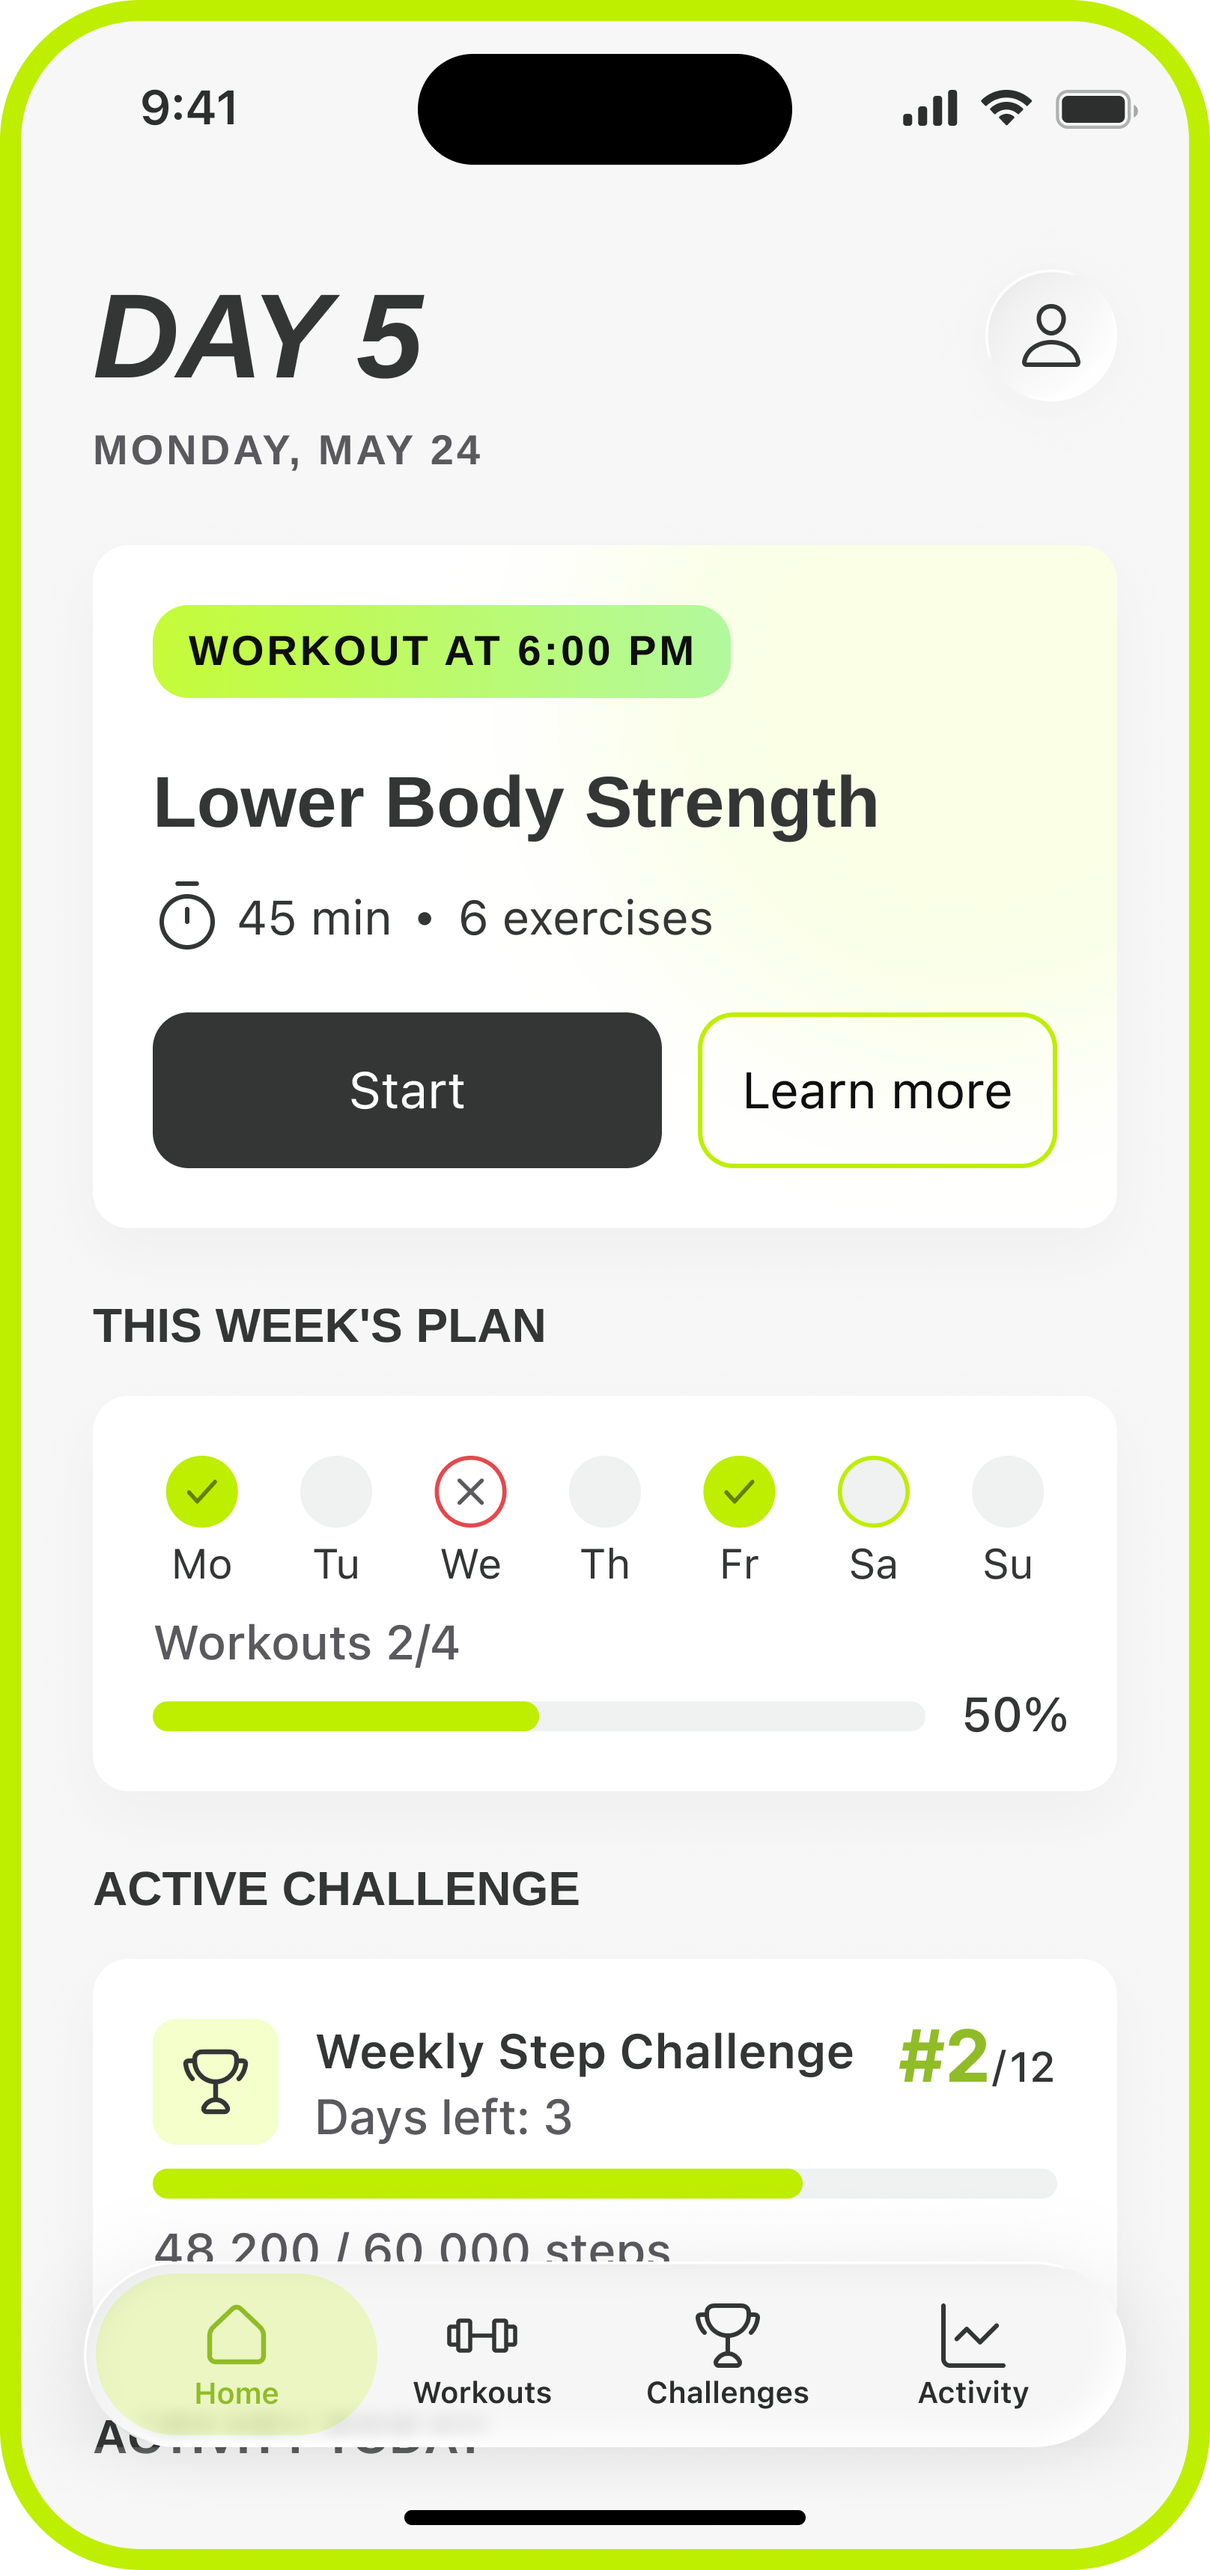
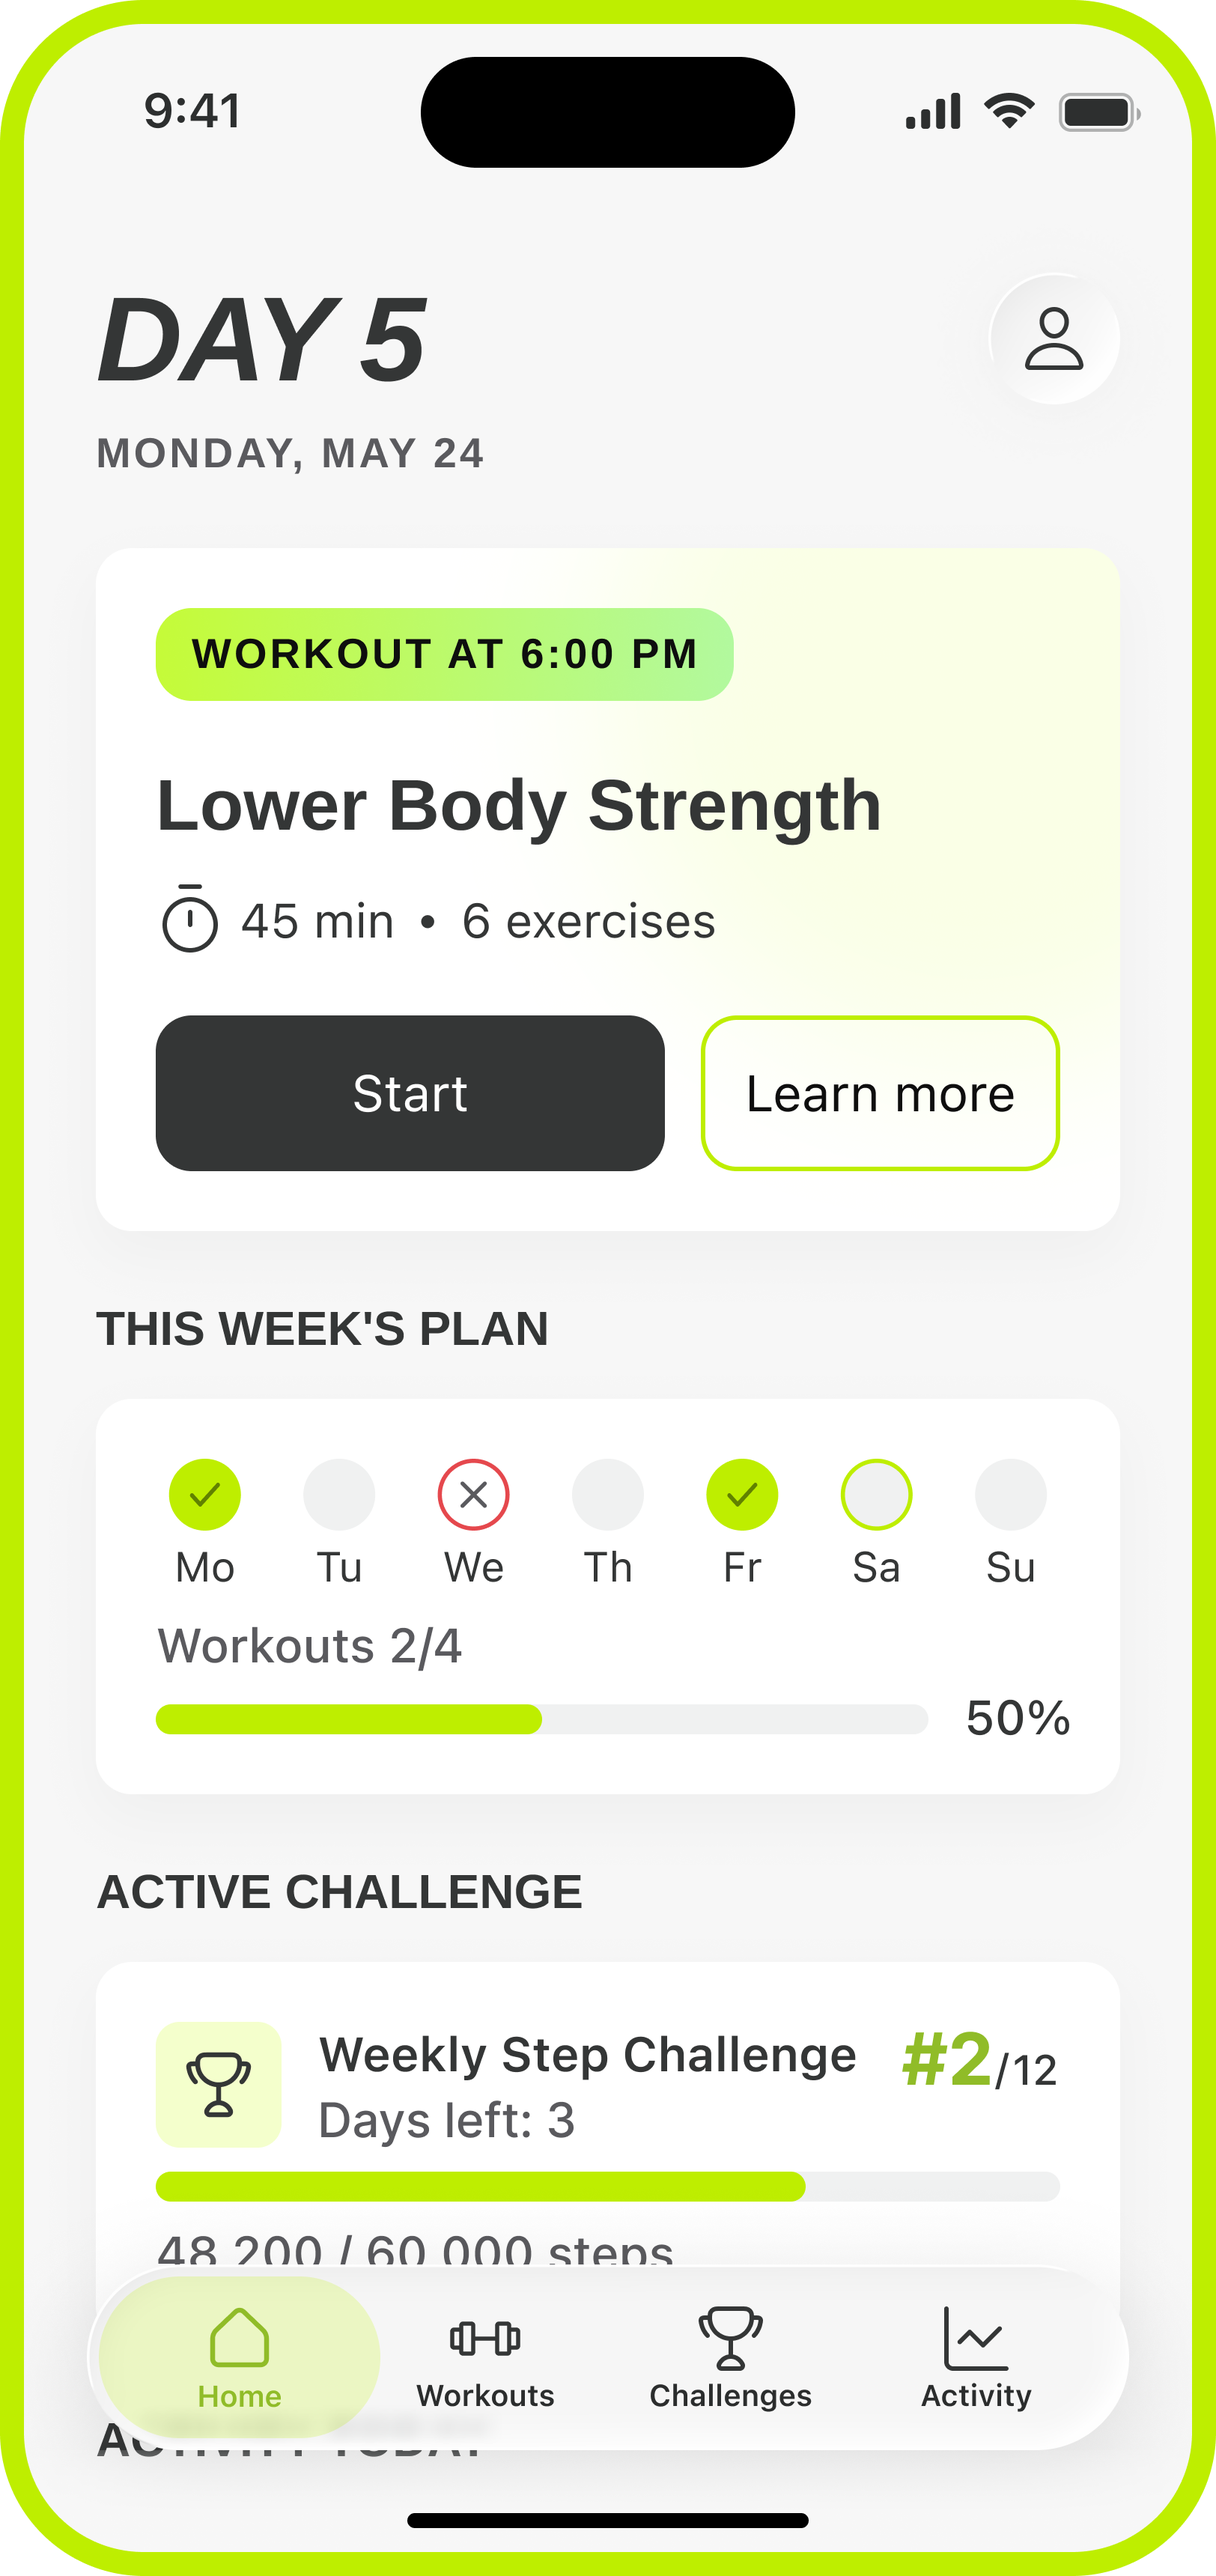
Fix horizontal scroll from dragging the hero card stack on mobile
overflow-x: clip isn't supported on older iOS Safari and is silently
dropped, leaving the page scrollable whenever a dragged card's
transform pushed far enough right. Add an overflow-x: hidden fallback
plus overscroll-behavior-x: none, and rubber-band the drag distance
itself so a hard fling can't push the card arbitrarily far off-screen.

diff --git a/assets/js/card-stack.js b/assets/js/card-stack.js
@@ -18,6 +18,17 @@ document.addEventListener('DOMContentLoaded', function () {
 
   deck.style.setProperty('--stack-transition-duration', config.transitionDuration + 'ms');
 
+  // Softly caps drag distance so a hard fling can't push the card (and the
+  // page's scrollable area) arbitrarily far off-screen. Asymptotically
+  // approaches 2x max instead of stopping dead.
+  function rubberBand(delta, max) {
+    var sign = delta < 0 ? -1 : 1;
+    var abs = Math.abs(delta);
+    if (abs <= max) return delta;
+    var over = abs - max;
+    return sign * (max + max * (1 - 1 / (over / max + 1)));
+  }
+
   var state = {
     activeCard: null,
     pointerId: null,
@@ -25,6 +36,7 @@ document.addEventListener('DOMContentLoaded', function () {
     startY: 0,
     dx: 0,
     dy: 0,
+    maxDrag: 0,
     locked: false
   };
 
@@ -116,6 +128,7 @@ document.addEventListener('DOMContentLoaded', function () {
     state.startY = event.clientY;
     state.dx = 0;
     state.dy = 0;
+    state.maxDrag = deck.getBoundingClientRect().width * 1.3;
 
     topCard.classList.add('is-dragging');
     topCard.setPointerCapture(event.pointerId);
@@ -124,8 +137,8 @@ document.addEventListener('DOMContentLoaded', function () {
   function onPointerMove(event) {
     if (!state.activeCard || event.pointerId !== state.pointerId) return;
 
-    state.dx = event.clientX - state.startX;
-    state.dy = event.clientY - state.startY;
+    state.dx = rubberBand(event.clientX - state.startX, state.maxDrag);
+    state.dy = rubberBand(event.clientY - state.startY, state.maxDrag);
 
     var rotation = Math.max(-config.maxDragRotation, Math.min(config.maxDragRotation, state.dx * 0.045));
     state.activeCard.style.transform =

diff --git a/assets/css/style.css b/assets/css/style.css
@@ -24,7 +24,12 @@
    ================================================ */
 *, *::before, *::after { box-sizing: border-box; margin: 0; padding: 0; }
 
-html { scroll-behavior: smooth; overflow-x: clip; }
+html {
+  scroll-behavior: smooth;
+  overflow-x: hidden;
+  overflow-x: clip;
+  overscroll-behavior-x: none;
+}
 
 body {
   background: var(--bg);
@@ -33,6 +38,8 @@ body {
   font-feature-settings: "ss01", "cv11";
   -webkit-font-smoothing: antialiased;
   line-height: 1.6;
+  overflow-x: hidden;
+  overscroll-behavior-x: none;
 }
 
 a { color: inherit; text-decoration: none; }
